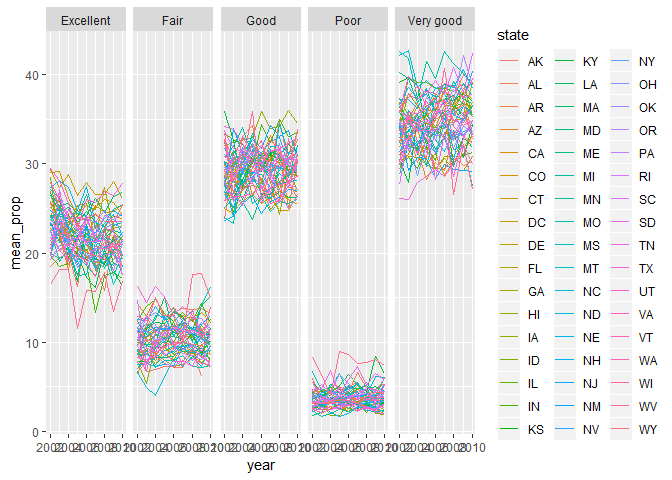
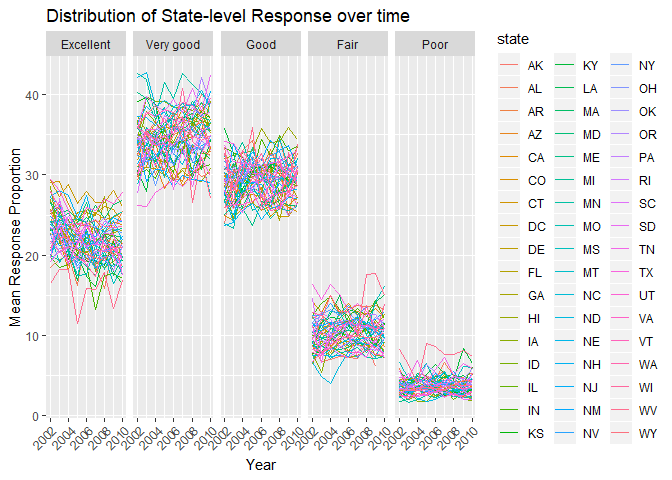
make problem 2_2 plot readable in the html file.

diff --git a/p8105_hw3_st3117.md b/p8105_hw3_st3117.md
@@ -13,8 +13,15 @@ brfss =
   filter(topic == "Overall Health") %>% 
   separate(locationdesc, into = c("remove2", "county"), sep = 5) %>% 
   select(year, state = locationabbr, county, response, data_value) %>% 
-  mutate(response = as.factor(response))
+  mutate(response = as.factor(response),
+         response = factor(response, levels = c("Excellent", "Very good", "Good", "Fair", "Poor")))
 
+levels(brfss$response)
+```
+
+    ## [1] "Excellent" "Very good" "Good"      "Fair"      "Poor"
+
+``` r
 brfss
 ```
 
@@ -122,7 +129,13 @@ brfss %>%
   summarize(mean_prop = mean(data_value, na.rm = TRUE)) %>% 
   ggplot(aes(x = year, y = mean_prop, color = state)) +
     geom_line() +
-    facet_grid(. ~ response)
+    facet_grid(. ~ response) +
+    labs(
+      title = "Distribution of State-level Response over time",
+      x = "Year",
+      y = "Mean Response Proportion"
+      ) +
+    theme(axis.text.x = element_text(hjust = 1, angle = 45))
 ```
 
 ![](p8105_hw3_st3117_files/figure-markdown_github/Problem%201_5-1.png)
@@ -135,7 +148,7 @@ instacart = instacart
 
 ## How many aisles are there, and which aisles are the most items ordered from?
 
-count(distinct(instacart, aisle)) 
+count(distinct(instacart, aisle_id)) 
 ```
 
     ## # A tibble: 1 x 1
@@ -145,7 +158,7 @@ count(distinct(instacart, aisle))
 
 ``` r
 instacart %>%
-  summarize(n = n_distinct(aisle))
+  summarize(n = n_distinct(aisle_id))
 ```
 
     ## # A tibble: 1 x 1
@@ -173,9 +186,14 @@ Problem 2\_2 Make a plot that shows the number of items ordered in each aisle
 instacart %>%
   group_by(aisle) %>%
   summarize(n_obs = n()) %>% 
-  ggplot(aes(x = aisle, y = n_obs)) +
+  mutate(group = as.numeric(cut_number(n_obs, 3))) %>% 
+    ggplot(aes(x = reorder(aisle, n_obs), y = n_obs)) +
     geom_point() +
-    theme(axis.text.x = element_text(size = 4, hjust = 1, angle = 45))
+    facet_wrap(group ~ ., nrow = 3, scales = "free") +
+    theme(axis.text.x = element_text(size = 8, hjust = 1, angle = 45))
 ```
 
 ![](p8105_hw3_st3117_files/figure-markdown_github/Problem%202_2-1.png)
+
+Make a table showing the most popular item in each of the aisles “baking ingredients”, “dog food care”, and “packaged vegetables fruits”
+----------------------------------------------------------------------------------------------------------------------------------------
